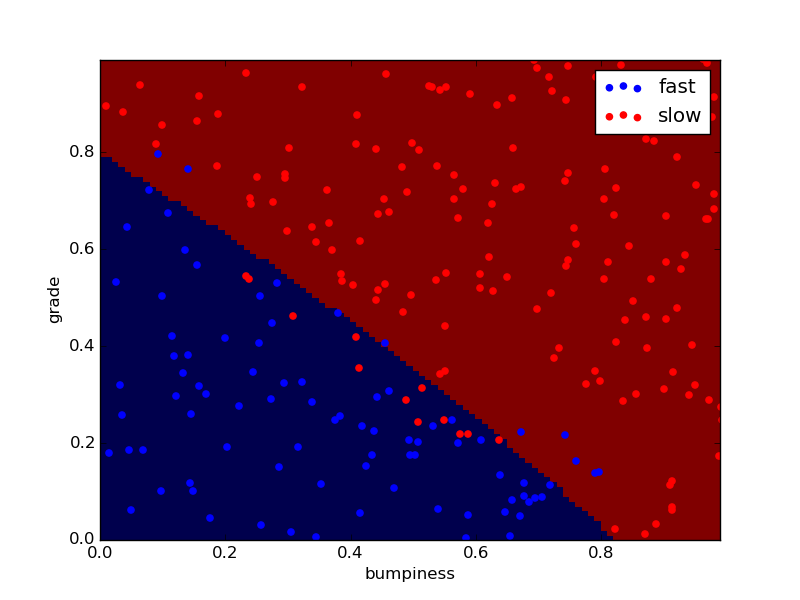
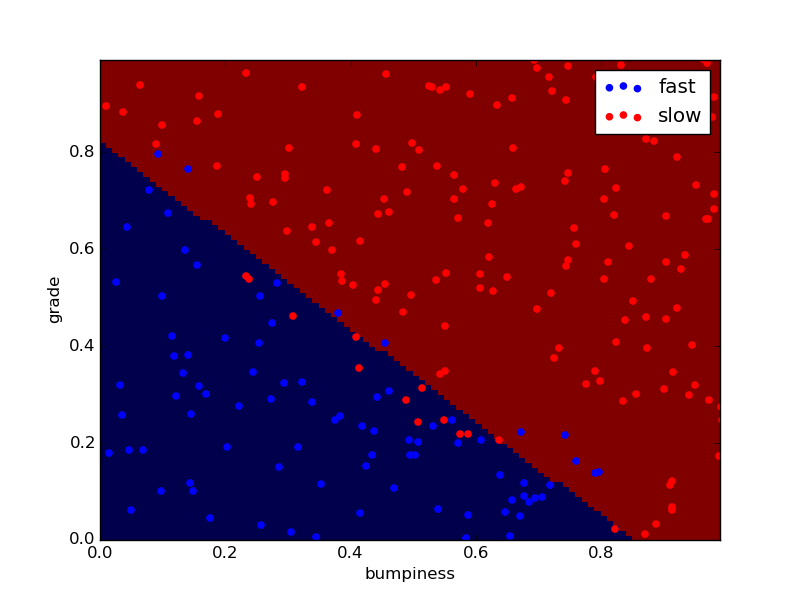
svm added

diff --git a/002 - SVM/svm_author_id.py b/002 - SVM/svm_author_id.py
@@ -1,0 +1,109 @@
+#!/usr/bin/python
+
+""" 
+    this is the code to accompany the Lesson 2 (SVM) mini-project
+
+    use an SVM to identify emails from the Enron corpus by their authors
+    
+    Sara has label 0
+    Chris has label 1
+
+"""
+    
+import sys
+from time import time
+sys.path.append("../tools/")
+from email_preprocess import preprocess
+from sklearn.svm import SVC
+from sklearn.metrics import accuracy_score
+
+### features_train and features_test are the features for the training
+### and testing datasets, respectively
+### labels_train and labels_test are the corresponding item labels
+features_train, features_test, labels_train, labels_test = preprocess()
+
+# clf = SVC(kernel="linear")
+clf = SVC(kernel="rbf", C=10000)
+t0 = time()
+"""
+
+	One way to speed up an algorithm is to train it on a smaller training 
+	dataset. The tradeoff is that the accuracy almost always goes down when 
+	you do this. Let's explore this more concretely: add in the following two 
+	lines immediately before training your classifier. 
+	
+	original (linear):
+	training time: 188.996 s            
+	predict time: 20.275 s                                                          
+	SVM accuracy: 0.98407281001137659   
+
+	These lines effectively slice the training dataset down to 1 percent of its 
+	original size, tossing out 99 percent of the training data. 
+
+	Sliced (linear):
+	training time: 0.09 s
+	predict time: 0.961 s
+	accuracy: 0.88452787258248011
+
+	If speed is a major consideration (and for many real-time machine learning 
+	applications, it certainly is) then you may want to sacrifice a bit of 
+	accuracy if it means you can train/predict faster.
+
+	Different Kernel:
+	clf = SVC(kernel="rbf", C=10000)
+	Also, C is very effective in this assignment, try to change it and see.
+
+		Sliced data set:
+		training time: 0.098 s
+		predict time: 0.833 s
+	    SVM accuracy: 0.89249146757679176
+
+	    Full sized data set:
+	    training time: 118.729 s
+		predict time: 13.075 s
+	    SVM accuracy: 0.99089874857792948 #FTW
+
+"""
+# comment out those two lines if you want to see original one
+#features_train = features_train[:len(features_train)/100] 
+#labels_train = labels_train[:len(labels_train)/100] 
+
+clf.fit(features_train, labels_train)
+print "training time:", round(time()-t0, 3), "s"
+t0 = time()
+pred = clf.predict(features_test)
+print "predict time:", round(time()-t0, 3), "s"
+
+# originally: 0.98407281001137659 acc... FTW but it takes time
+print "SVM accuracy: %r" % accuracy_score(pred, labels_test)
+
+"""
+	What class does your SVM (0 or 1, corresponding to Sara and Chris respectively) 
+	predict for element 10 of the test set? The 26th? The 50th? 
+	(Use the RBF kernel, C=10000, and 1% of the training set. Normally you'd get 
+	the best results using the full training set, but we found that using 1% sped up 
+	the computation considerably and did not change our results--so feel free to use 
+	that shortcut here.)
+
+"""
+print "10th: %r, 26th: %r, 50th: %r" % (pred[10], pred[26], pred[50])
+
+# There are over 1700 test events, how many are predicted to be in the "Chris" (1) class?
+print "No. of predicted to be in the 'Chris'(1): %r" % sum(pred)
+
+"""
+	Hopefully it’s becoming clearer what they told us about the Naive Bayes -- is 
+	great for text -- it’s faster and generally gives better performance than an SVM 
+	for this particular problem. Of course, there are plenty of other problems where 
+	an SVM might work better. Knowing which one to try when you’re tackling a problem 
+	for the first time is part of the art and science of machine learning. In addition 
+	to picking your algorithm, depending on which one you try, there are parameter 
+	tunes to worry about as well, and the possibility of overfitting (especially if 
+	you don’t have lots of training data).
+
+	Our general suggestion is to try a few different algorithms for each problem. 
+	Tuning the parameters can be a lot of work, but just sit tight for now--toward 
+	the end of the class we will introduce you to GridCV, a great sklearn tool that 
+	can find an optimal parameter tune almost automatically.
+
+"""

diff --git a/README.md b/README.md
@@ -24,3 +24,9 @@ Before try to run any of the assignments, please run 'startup.py' in 'tools' dir
 
 * Naive Bayes Classifier is used to identify emails by their authors. 
 * Also time performance and accuracy are calculated.
+
+### Lesson 2: SVM
+
+In this mini-project, we’ll tackle the exact same email author ID problem as the Naive Bayes mini-project, but now with an SVM. What we find will help clarify some of the practical differences between the two algorithms. This project also gives us a chance to play around with parameters a lot more than Naive Bayes did, so we will do that too.
+
+Read the comments in the code, for more information.
